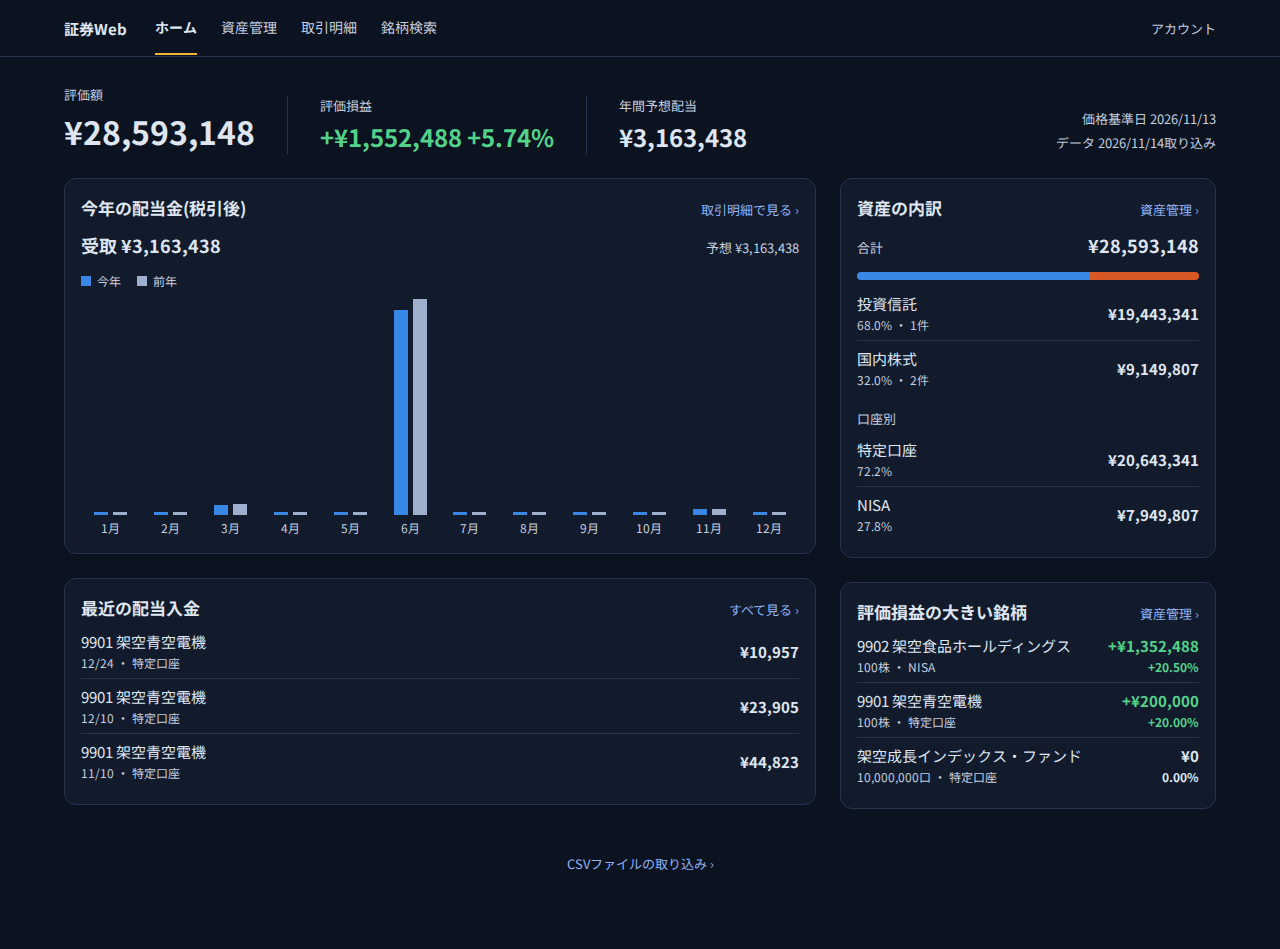
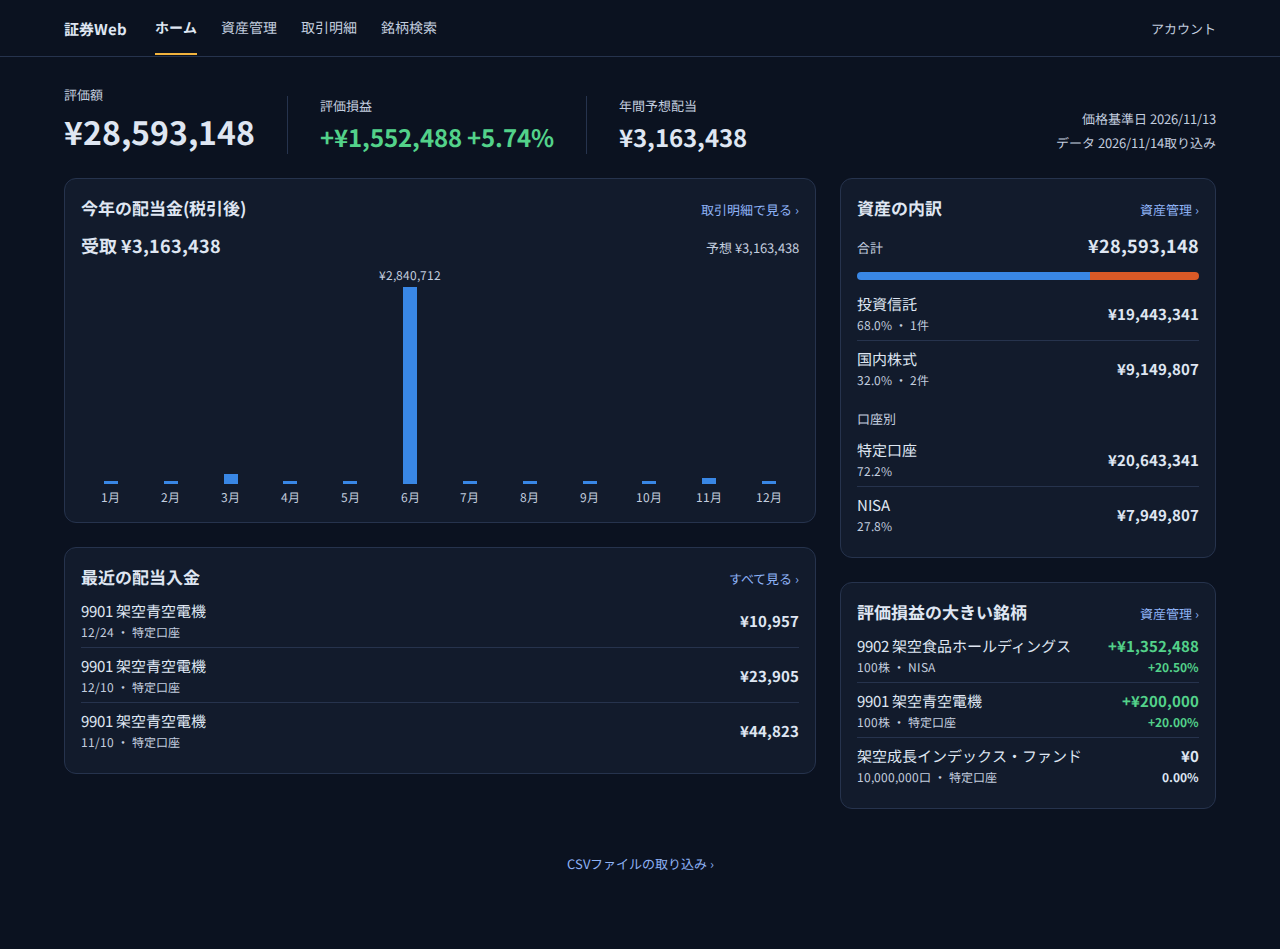
ホーム新案の配当グラフを税引後の単棒に統一(6月に税引後 ¥2,840,712、前年なし、build 382 asserts通過、6枚撮り直し)

diff --git a/docs/design/work/phase8-visual/home-pc.html b/docs/design/work/phase8-visual/home-pc.html
@@ -76,15 +76,13 @@ body{margin:0; background:var(--page); color:var(--ink);
 .bar100 .a{background:var(--comp-a); width:68.0%}
 .bar100 .b{background:var(--comp-b); width:32.0%}
 .subhead{font-size:13px; color:var(--mut); margin:14px 0 0; white-space:nowrap}
-/* 棒グラフ: 高さ240px。月ラベル1〜12月すべて12px。値ラベルなし */
-.legend{display:flex; gap:16px; font-size:12px; color:var(--mut); margin-top:14px}
-.legend .sw{display:inline-block; width:10px; height:10px; margin-right:6px}
+/* 棒グラフ: 高さ240px。税引後の単棒。月ラベル1〜12月すべて12px。6月に税引後 ¥2,840,712 の値ラベル */
 .bars{display:flex; align-items:stretch; height:240px; margin-top:8px}
 .bars .g{flex:1; display:flex; flex-direction:column; justify-content:flex-end; align-items:center; min-width:0}
-.bars .pair{flex:1; display:flex; align-items:flex-end; justify-content:center; gap:5px; width:100%; min-height:0}
+.bars .pair{flex:1; display:flex; flex-direction:column; align-items:center; justify-content:flex-end; gap:4px; width:100%; min-height:0}
 .bars .b{width:14px; min-height:3px}
 .bars .b.cur{background:var(--bar-cur)}
-.bars .b.prev{background:var(--bar-prev)}
+.bars .v{font-size:12px; color:var(--mut); white-space:nowrap; font-variant-numeric:tabular-nums}
 .bars .m{font-size:12px; color:var(--mut); height:18px; line-height:18px; white-space:nowrap; margin-top:4px}
 .footlink{display:flex; justify-content:center; align-items:center; min-height:44px; margin-top:32px; font-size:13px; color:var(--accent); white-space:nowrap}
 @media (max-width:900px){
@@ -115,20 +113,19 @@ body{margin:0; background:var(--page); color:var(--ink);
       <section class="card" aria-label="今年の配当金">
         <div class="hrow"><h2>今年の配当金(税引後)</h2><span class="more">取引明細で見る ›</span></div>
         <div class="sum"><span class="recv num">受取 ¥3,163,438</span><span class="fore num">予想 ¥3,163,438</span></div>
-        <div class="legend"><span><span class="sw" style="background:var(--bar-cur)"></span>今年</span><span><span class="sw" style="background:var(--bar-prev)"></span>前年</span></div>
-        <div class="bars" role="img" aria-label="月別配当: 6月に集中">
-          <div class="g"><div class="pair"><span class="b cur" style="height:3px"></span><span class="b prev" style="height:3px"></span></div><span class="m">1月</span></div>
-          <div class="g"><div class="pair"><span class="b cur" style="height:3px"></span><span class="b prev" style="height:3px"></span></div><span class="m">2月</span></div>
-          <div class="g"><div class="pair"><span class="b cur" style="height:10px"></span><span class="b prev" style="height:11px"></span></div><span class="m">3月</span></div>
-          <div class="g"><div class="pair"><span class="b cur" style="height:3px"></span><span class="b prev" style="height:3px"></span></div><span class="m">4月</span></div>
-          <div class="g"><div class="pair"><span class="b cur" style="height:3px"></span><span class="b prev" style="height:3px"></span></div><span class="m">5月</span></div>
-          <div class="g"><div class="pair"><span class="b cur" style="height:205px"></span><span class="b prev" style="height:216px"></span></div><span class="m">6月</span></div>
-          <div class="g"><div class="pair"><span class="b cur" style="height:3px"></span><span class="b prev" style="height:3px"></span></div><span class="m">7月</span></div>
-          <div class="g"><div class="pair"><span class="b cur" style="height:3px"></span><span class="b prev" style="height:3px"></span></div><span class="m">8月</span></div>
-          <div class="g"><div class="pair"><span class="b cur" style="height:3px"></span><span class="b prev" style="height:3px"></span></div><span class="m">9月</span></div>
-          <div class="g"><div class="pair"><span class="b cur" style="height:3px"></span><span class="b prev" style="height:3px"></span></div><span class="m">10月</span></div>
-          <div class="g"><div class="pair"><span class="b cur" style="height:6px"></span><span class="b prev" style="height:6px"></span></div><span class="m">11月</span></div>
-          <div class="g"><div class="pair"><span class="b cur" style="height:3px"></span><span class="b prev" style="height:3px"></span></div><span class="m">12月</span></div>
+        <div class="bars" role="img" aria-label="月別配当(税引後): 6月 ¥2,840,712に集中">
+          <div class="g"><div class="pair"><span class="b cur" style="height:3px"></span></div><span class="m">1月</span></div>
+          <div class="g"><div class="pair"><span class="b cur" style="height:3px"></span></div><span class="m">2月</span></div>
+          <div class="g"><div class="pair"><span class="b cur" style="height:10px"></span></div><span class="m">3月</span></div>
+          <div class="g"><div class="pair"><span class="b cur" style="height:3px"></span></div><span class="m">4月</span></div>
+          <div class="g"><div class="pair"><span class="b cur" style="height:3px"></span></div><span class="m">5月</span></div>
+          <div class="g"><div class="pair"><span class="v num">¥2,840,712</span><span class="b cur" style="height:205px"></span></div><span class="m">6月</span></div>
+          <div class="g"><div class="pair"><span class="b cur" style="height:3px"></span></div><span class="m">7月</span></div>
+          <div class="g"><div class="pair"><span class="b cur" style="height:3px"></span></div><span class="m">8月</span></div>
+          <div class="g"><div class="pair"><span class="b cur" style="height:3px"></span></div><span class="m">9月</span></div>
+          <div class="g"><div class="pair"><span class="b cur" style="height:3px"></span></div><span class="m">10月</span></div>
+          <div class="g"><div class="pair"><span class="b cur" style="height:6px"></span></div><span class="m">11月</span></div>
+          <div class="g"><div class="pair"><span class="b cur" style="height:3px"></span></div><span class="m">12月</span></div>
         </div>
       </section>
 

diff --git a/docs/design/work/phase8-visual/home-mobile.html b/docs/design/work/phase8-visual/home-mobile.html
@@ -71,15 +71,13 @@ body{margin:0; background:var(--page); color:var(--ink);
 .bar100 .a{background:var(--comp-a); width:68.0%}
 .bar100 .b{background:var(--comp-b); width:32.0%}
 .subhead{font-size:13px; color:var(--mut); margin:14px 0 0; white-space:nowrap}
-/* 棒グラフ: 高さ170px。今年と前年の2本並び。月は1・4・7・10だけ11px。値ラベルなし */
-.legend{display:flex; gap:16px; font-size:12px; color:var(--mut); margin-top:14px}
-.legend .sw{display:inline-block; width:10px; height:10px; margin-right:6px}
+/* 棒グラフ: 高さ170px。税引後の単棒。月は1・4・7・10だけ11px。6月に税引後 ¥2,840,712 の値ラベル */
 .bars{display:flex; align-items:stretch; height:170px; margin-top:8px}
 .bars .g{flex:1; display:flex; flex-direction:column; justify-content:flex-end; align-items:center; min-width:0}
-.bars .pair{flex:1; display:flex; align-items:flex-end; justify-content:center; gap:4px; width:100%; min-height:0}
+.bars .pair{flex:1; display:flex; flex-direction:column; align-items:center; justify-content:flex-end; gap:4px; width:100%; min-height:0}
 .bars .b{width:8px; min-height:3px}
 .bars .b.cur{background:var(--bar-cur)}
-.bars .b.prev{background:var(--bar-prev)}
+.bars .v{font-size:11px; color:var(--mut); white-space:nowrap; font-variant-numeric:tabular-nums}
 .bars .m{font-size:11px; color:var(--mut); height:16px; line-height:16px; white-space:nowrap; margin-top:4px}
 /* 最下部の控えめな文字リンク */
 .footlink{display:flex; justify-content:center; align-items:center; min-height:44px; margin-top:20px; font-size:13px; color:var(--accent); white-space:nowrap}
@@ -105,20 +103,19 @@ body{margin:0; background:var(--page); color:var(--ink);
   <section class="card" aria-label="今年の配当金">
     <div class="hrow"><h2>今年の配当金(税引後)</h2><span class="more">取引明細で見る ›</span></div>
     <div class="sum"><span class="recv num">受取 ¥3,163,438</span><span class="fore num">予想 ¥3,163,438</span></div>
-    <div class="legend"><span><span class="sw" style="background:var(--bar-cur)"></span>今年</span><span><span class="sw" style="background:var(--bar-prev)"></span>前年</span></div>
-    <div class="bars" role="img" aria-label="月別配当: 6月に集中">
-      <div class="g"><div class="pair"><span class="b cur" style="height:3px"></span><span class="b prev" style="height:3px"></span></div><span class="m">1月</span></div>
-      <div class="g"><div class="pair"><span class="b cur" style="height:3px"></span><span class="b prev" style="height:3px"></span></div><span class="m"></span></div>
-      <div class="g"><div class="pair"><span class="b cur" style="height:7px"></span><span class="b prev" style="height:8px"></span></div><span class="m"></span></div>
-      <div class="g"><div class="pair"><span class="b cur" style="height:3px"></span><span class="b prev" style="height:3px"></span></div><span class="m">4月</span></div>
-      <div class="g"><div class="pair"><span class="b cur" style="height:3px"></span><span class="b prev" style="height:3px"></span></div><span class="m"></span></div>
-      <div class="g"><div class="pair"><span class="b cur" style="height:142px"></span><span class="b prev" style="height:150px"></span></div><span class="m"></span></div>
-      <div class="g"><div class="pair"><span class="b cur" style="height:3px"></span><span class="b prev" style="height:3px"></span></div><span class="m">7月</span></div>
-      <div class="g"><div class="pair"><span class="b cur" style="height:3px"></span><span class="b prev" style="height:3px"></span></div><span class="m"></span></div>
-      <div class="g"><div class="pair"><span class="b cur" style="height:3px"></span><span class="b prev" style="height:3px"></span></div><span class="m"></span></div>
-      <div class="g"><div class="pair"><span class="b cur" style="height:3px"></span><span class="b prev" style="height:3px"></span></div><span class="m">10月</span></div>
-      <div class="g"><div class="pair"><span class="b cur" style="height:4px"></span><span class="b prev" style="height:4px"></span></div><span class="m"></span></div>
-      <div class="g"><div class="pair"><span class="b cur" style="height:3px"></span><span class="b prev" style="height:3px"></span></div><span class="m"></span></div>
+    <div class="bars" role="img" aria-label="月別配当(税引後): 6月 ¥2,840,712に集中">
+      <div class="g"><div class="pair"><span class="b cur" style="height:3px"></span></div><span class="m">1月</span></div>
+      <div class="g"><div class="pair"><span class="b cur" style="height:3px"></span></div><span class="m"></span></div>
+      <div class="g"><div class="pair"><span class="b cur" style="height:7px"></span></div><span class="m"></span></div>
+      <div class="g"><div class="pair"><span class="b cur" style="height:3px"></span></div><span class="m">4月</span></div>
+      <div class="g"><div class="pair"><span class="b cur" style="height:3px"></span></div><span class="m"></span></div>
+      <div class="g"><div class="pair"><span class="v num">¥2,840,712</span><span class="b cur" style="height:142px"></span></div><span class="m"></span></div>
+      <div class="g"><div class="pair"><span class="b cur" style="height:3px"></span></div><span class="m">7月</span></div>
+      <div class="g"><div class="pair"><span class="b cur" style="height:3px"></span></div><span class="m"></span></div>
+      <div class="g"><div class="pair"><span class="b cur" style="height:3px"></span></div><span class="m"></span></div>
+      <div class="g"><div class="pair"><span class="b cur" style="height:3px"></span></div><span class="m">10月</span></div>
+      <div class="g"><div class="pair"><span class="b cur" style="height:4px"></span></div><span class="m"></span></div>
+      <div class="g"><div class="pair"><span class="b cur" style="height:3px"></span></div><span class="m"></span></div>
     </div>
   </section>
 

diff --git a/docs/design/work/phase8-visual/README.md b/docs/design/work/phase8-visual/README.md
@@ -7,13 +7,13 @@
 スマホ3点:
 
 1. 一番上を3要素だけにした(ラベル「評価額」→評価額 30px左寄せ→評価損益 1行→価格基準日)。年間予想配当は一番上から外し、配当のセクションに入れた。
-2. 配当カードの「1611%」と細い進捗バーをやめ、要約は「受取 ¥3,163,438 / 予想 ¥3,969,907」の1行にした。棒グラフは170px・今年と前年の2本並び・月ラベルは1・4・7・10月だけにした。
+2. 配当カードの「1611%」と細い進捗バーをやめ、要約は「受取 ¥3,163,438 / 予想 ¥3,163,438」の1行にした(どちらも税引後、fixtures annualForecast.afterTax)。棒グラフは170px・税引後の単棒・月ラベルは1・4・7・10月だけ・6月に税引後 ¥2,840,712 の値ラベルにした。前年は税引後の月別がないため載せない。
 3. 円グラフと口座別の色札をやめ、資産の内訳は1本の横棒(8px・2色)+同じ行の型に統一した。CSVの取り込みは見出し帯から外し、ページ最下部の文字リンク1行にした。
 
 PC3点:
 
 1. 紺の帯をやめ、3つの数字(評価額 32px・評価損益 24px・年間予想配当 24px、ラベル 13px灰)を地の上に横並び・縦の細い線区切りにした。価格基準日・取り込み日は右端に 13px灰で置いた。
-2. 下を2列(左2:右1、間24px)にし、左に今年の配当金(棒グラフ高さ240px、月ラベル12か月・凡例)+最近の配当入金、右に資産の内訳+評価損益の大きい銘柄を置いた。
+2. 下を2列(左2:右1、間24px)にし、左に今年の配当金(棒グラフ高さ240px、税引後の単棒、月ラベル12か月、6月に税引後 ¥2,840,712 の値ラベル)+最近の配当入金、右に資産の内訳+評価損益の大きい銘柄を置いた。
 3. ドーナツと口座別の色札をやめ、横棒+行の型に統一した。最大幅 1200px・中央にした。
 
 ## 自己点検表(×: 0)
@@ -35,7 +35,7 @@ PC3点:
 | M1 | 一番上は3つだけ(ラベル12px灰→評価額30px太字紺・左寄せ→評価損益16px太字緑→価格基準日12px灰)。年間予想配当は出さない | ○ | `home-mobile-light.png`、`home-mobile-dark.png` |
 | M2 | 各セクションは白いカード(角丸12px、影なし、1px線、内側16px、カード間12px)。中は見出し16px太字+右に入口リンク13px青→要約→明細 | ○ | `home-mobile-light.png`(4カード)、`home-mobile-dark.png` |
 | M3 | 明細の行の型(全セクション共通): 高さ56px以上。左=名前15px(2段目補足12px灰)、右=金額15px太字・右そろえ | ○ | `home-mobile-light.png`。口座別も行の型で色札なし |
-| M4 | 配当の要約は「受取 ¥3,163,438」18px太字と「予想 ¥3,163,438」13px灰を1行(どちらも税引後で基準をそろえる)。達成率%・進捗バーなし。棒は高さ170px・2本並び、月は1・4・7・10月だけ11px、値ラベルなし、凡例「今年/前年」 | ○ | `home-mobile-light.png` |
+| M4 | 配当の要約は「受取 ¥3,163,438」18px太字と「予想 ¥3,163,438」13px灰を1行(どちらも税引後で基準をそろえる)。達成率%・進捗バーなし。棒は高さ170px・税引後の単棒、月は1・4・7・10月だけ11px、6月に税引後 ¥2,840,712 の値ラベル | ○ | `home-mobile-light.png` |
 | M5 | 内訳は1本の横棒(高さ8px・2色)→資産種別の行→小見出し「口座別」13px灰→口座別の行 | ○ | `home-mobile-light.png`、`home-mobile-dark.png`(横棒は現行系列色) |
 | M6 | 最近の配当入金3件・評価損益の大きい銘柄3件を行の型で | ○ | `home-mobile-light.png`。銘柄行の右は `+金額 +%` の2段 |
 | M7 | 下に固定のナビ(現行と同じ4項目、アイコン+文字、各44px以上) | ○ | `home-mobile-light.png`(最下部に固定表示)。各項目は高さ60px |
@@ -46,7 +46,7 @@ PC:
 |---|---|---|---|
 | P1 | 上に横並びのナビ(現行と同じ4項目)とアカウント。帯の塗りなし、下に1pxの線だけ | ○ | `home-pc-1280-light.png`、`home-pc-1440-dark.png` |
 | P2 | 一番上は3数字横並び(評価額32px・評価損益24px・年間予想配当24px、ラベル13px灰)。区切りは縦の細い線。帯やカードで囲まない。価格基準日・取り込み日は右端13px灰 | ○ | `home-pc-1280-light.png`、`home-pc-1440-light.png` |
-| P3 | 下は2列(左2:右1、間24px)。左=配当(棒高さ240px・月1〜12月すべて12px・凡例)+最近の配当入金、右=内訳+損益銘柄 | ○ | `home-pc-1280-light.png`、`home-pc-1280-dark.png` |
+| P3 | 下は2列(左2:右1、間24px)。左=配当(棒高さ240px・税引後の単棒・月1〜12月すべて12px・6月に税引後値ラベル)+最近の配当入金、右=内訳+損益銘柄 | ○ | `home-pc-1280-light.png`、`home-pc-1280-dark.png` |
 | P4 | カード・行・文字の型はスマホと同じ(見出し17px、行15px、行の高さ52px) | ○ | `home-pc-1440-light.png`、`home-pc-1440-dark.png` |
 | P5 | 最大幅1200px・中央 | ○ | `home-pc-1440-light.png`(左右の余白が均等) |
 
